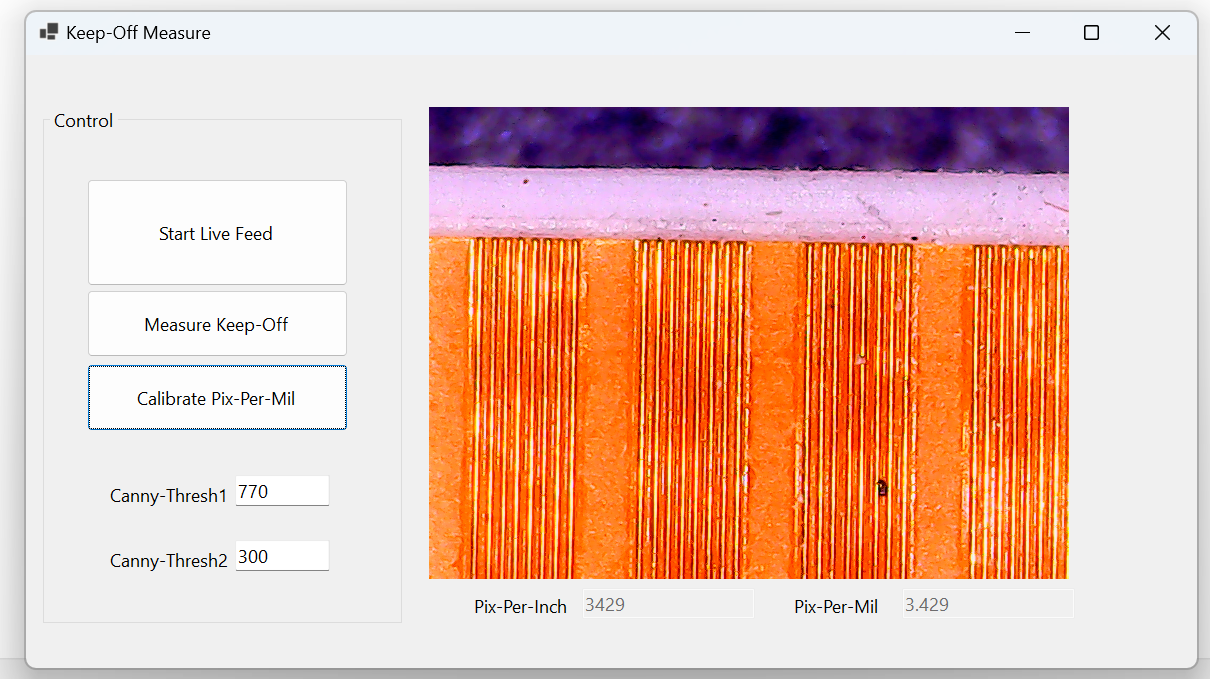
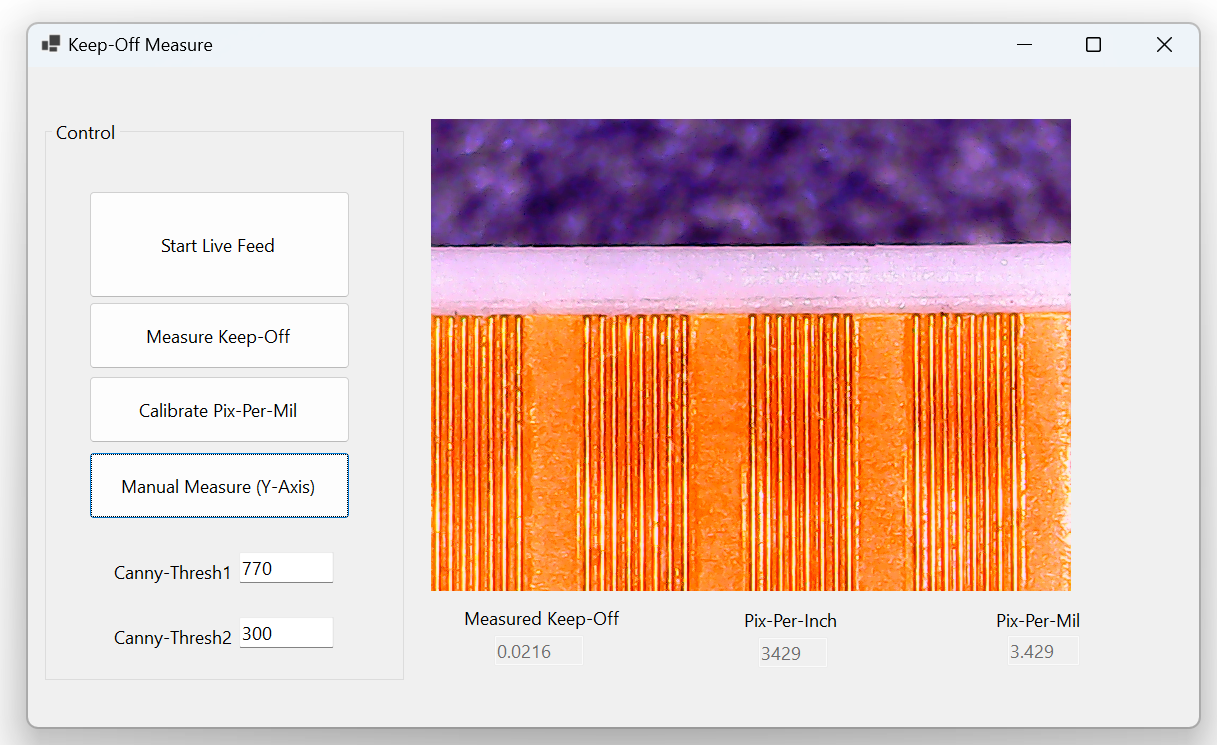
updates and new screenshot

diff --git a/KeepOffMeasure/Form1.Designer.cs b/KeepOffMeasure/Form1.Designer.cs
@@ -42,6 +42,8 @@
             this.label4 = new System.Windows.Forms.Label();
             this.groupBox1 = new System.Windows.Forms.GroupBox();
             this.btnManualMeasure = new System.Windows.Forms.Button();
+            this.txtBoxMsrdKeepOff = new System.Windows.Forms.TextBox();
+            this.label5 = new System.Windows.Forms.Label();
             ((System.ComponentModel.ISupportInitialize)(this.mainFeedPicBox)).BeginInit();
             this.groupBox1.SuspendLayout();
             this.SuspendLayout();
@@ -88,7 +90,7 @@
             // label1
             // 
             this.label1.AutoSize = true;
-            this.label1.Location = new System.Drawing.Point(307, 337);
+            this.label1.Location = new System.Drawing.Point(498, 324);
             this.label1.Name = "label1";
             this.label1.Size = new System.Drawing.Size(73, 15);
             this.label1.TabIndex = 4;
@@ -96,22 +98,22 @@
             // 
             // txtBoxPixPerInch
             // 
-            this.txtBoxPixPerInch.Location = new System.Drawing.Point(386, 334);
+            this.txtBoxPixPerInch.Location = new System.Drawing.Point(511, 342);
             this.txtBoxPixPerInch.Name = "txtBoxPixPerInch";
-            this.txtBoxPixPerInch.Size = new System.Drawing.Size(122, 23);
+            this.txtBoxPixPerInch.Size = new System.Drawing.Size(50, 23);
             this.txtBoxPixPerInch.TabIndex = 5;
             // 
             // txtBoxPixPerMil
             // 
-            this.txtBoxPixPerMil.Location = new System.Drawing.Point(610, 334);
+            this.txtBoxPixPerMil.Location = new System.Drawing.Point(685, 341);
             this.txtBoxPixPerMil.Name = "txtBoxPixPerMil";
-            this.txtBoxPixPerMil.Size = new System.Drawing.Size(122, 23);
+            this.txtBoxPixPerMil.Size = new System.Drawing.Size(52, 23);
             this.txtBoxPixPerMil.TabIndex = 7;
             // 
             // label2
             // 
             this.label2.AutoSize = true;
-            this.label2.Location = new System.Drawing.Point(531, 337);
+            this.label2.Location = new System.Drawing.Point(674, 324);
             this.label2.Name = "label2";
             this.label2.Size = new System.Drawing.Size(67, 15);
             this.label2.TabIndex = 6;
@@ -176,11 +178,29 @@
             this.btnManualMeasure.UseVisualStyleBackColor = true;
             this.btnManualMeasure.Click += new System.EventHandler(this.btnManualMeasure_Click);
             // 
+            // txtBoxMsrdKeepOff
+            // 
+            this.txtBoxMsrdKeepOff.Location = new System.Drawing.Point(326, 341);
+            this.txtBoxMsrdKeepOff.Name = "txtBoxMsrdKeepOff";
+            this.txtBoxMsrdKeepOff.Size = new System.Drawing.Size(64, 23);
+            this.txtBoxMsrdKeepOff.TabIndex = 14;
+            // 
+            // label5
+            // 
+            this.label5.AutoSize = true;
+            this.label5.Location = new System.Drawing.Point(302, 323);
+            this.label5.Name = "label5";
+            this.label5.Size = new System.Drawing.Size(110, 15);
+            this.label5.TabIndex = 13;
+            this.label5.Text = "Measured Keep-Off";
+            // 
             // Form1
             // 
             this.AutoScaleDimensions = new System.Drawing.SizeF(7F, 15F);
             this.AutoScaleMode = System.Windows.Forms.AutoScaleMode.Font;
             this.ClientSize = new System.Drawing.Size(820, 396);
+            this.Controls.Add(this.txtBoxMsrdKeepOff);
+            this.Controls.Add(this.label5);
             this.Controls.Add(this.txtBoxPixPerMil);
             this.Controls.Add(this.label2);
             this.Controls.Add(this.txtBoxPixPerInch);
@@ -213,5 +233,7 @@
         private Label label4;
         private GroupBox groupBox1;
         private Button btnManualMeasure;
+        private TextBox txtBoxMsrdKeepOff;
+        private Label label5;
     }
 }

diff --git a/KeepOffMeasure/Form1.cs b/KeepOffMeasure/Form1.cs
@@ -39,15 +39,15 @@ namespace KeepOffMeasure
         {
             InitializeComponent();
             setFormObjects();
-            //openWebCam();
-            setUpTest();
+            openWebCam();
+            //setUpTest();
         }
 
         public void setUpTest()
         {
             frame = new Mat(mainFeedPicBox.Height, mainFeedPicBox.Width, MatType.CV_8UC1);
             mainFeedPicBox.Image = BitmapConverter.ToBitmap(frame);
-            txtBoxPixPerInch.Enabled = txtBoxPixPerMil.Enabled = true;
+            txtBoxPixPerInch.Enabled = true; txtBoxPixPerMil.Enabled = true;
             txtBoxPixPerInch.Text = "3550";
             txtBoxPixPerMil.Text = "3.5";
             pix_per_inch = 3550;
@@ -62,6 +62,7 @@ namespace KeepOffMeasure
             manualMeasure = false;
             txtBoxPixPerInch.Enabled = false;
             txtBoxPixPerMil.Enabled = false;
+            txtBoxMsrdKeepOff.Enabled = false;
             camMeasure = new CamMeasure();
             txtCannyThresh1.Text = "770"; // increase this to leave out image noise
             txtCannyThresh2.Text = "300";
@@ -334,8 +335,14 @@ namespace KeepOffMeasure
             Cv2.ImShow("canny", frame_canny);
             Cv2.ImShow("heirachy", debug_mat);
 
+
             if (keep_off_dist != 0)
+            {
+                txtBoxMsrdKeepOff.Enabled = true;
+                txtBoxMsrdKeepOff.Text = Math.Round(keep_off_dist, 4).ToString(); 
+                txtBoxMsrdKeepOff.Enabled = false;
                 MessageBox.Show("keep off distance:\n" + keep_off_dist + "\"", msg_title_str);
+            }
         }
 
         private void btnManualMeasure_Click(object sender, EventArgs e)
